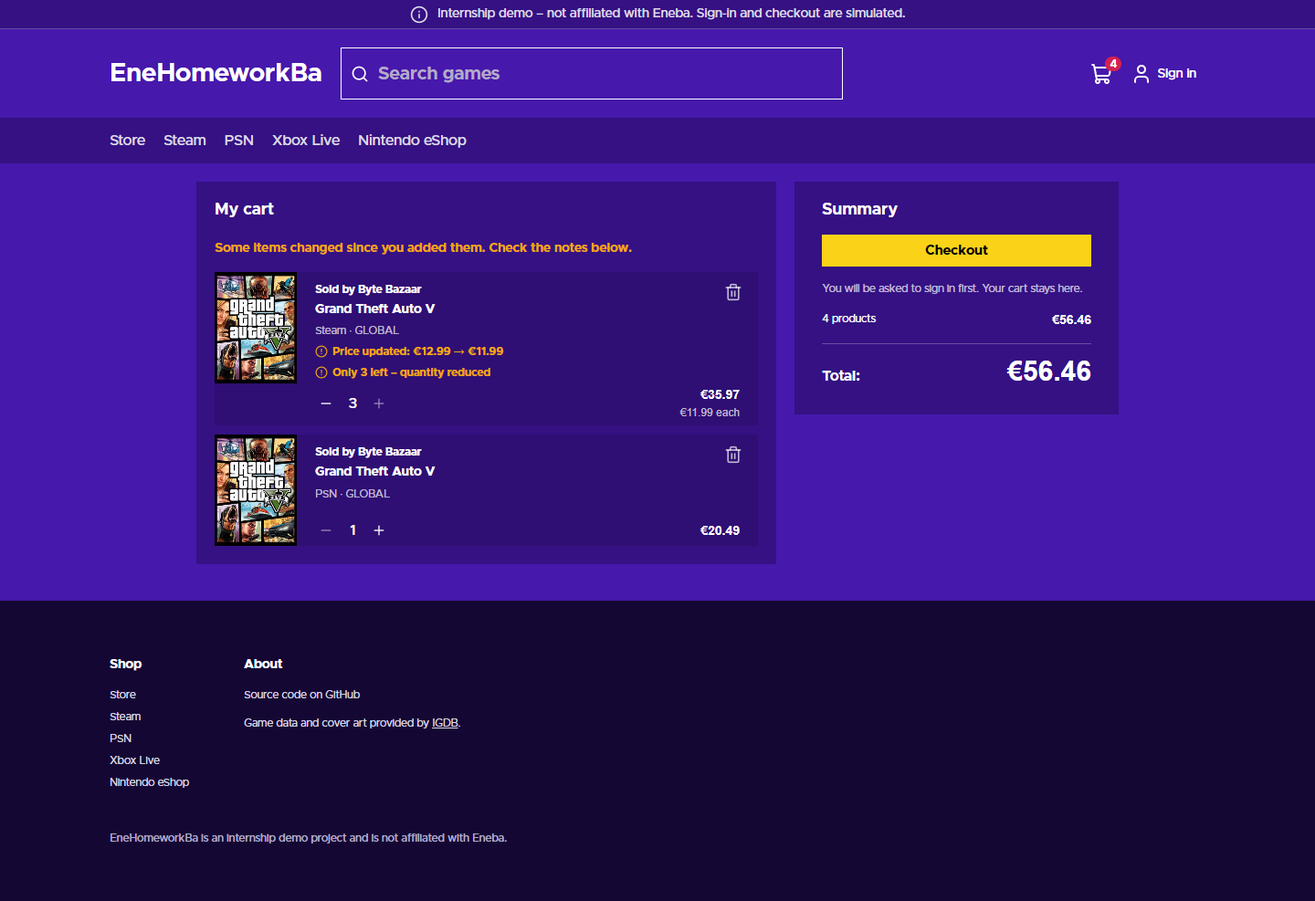
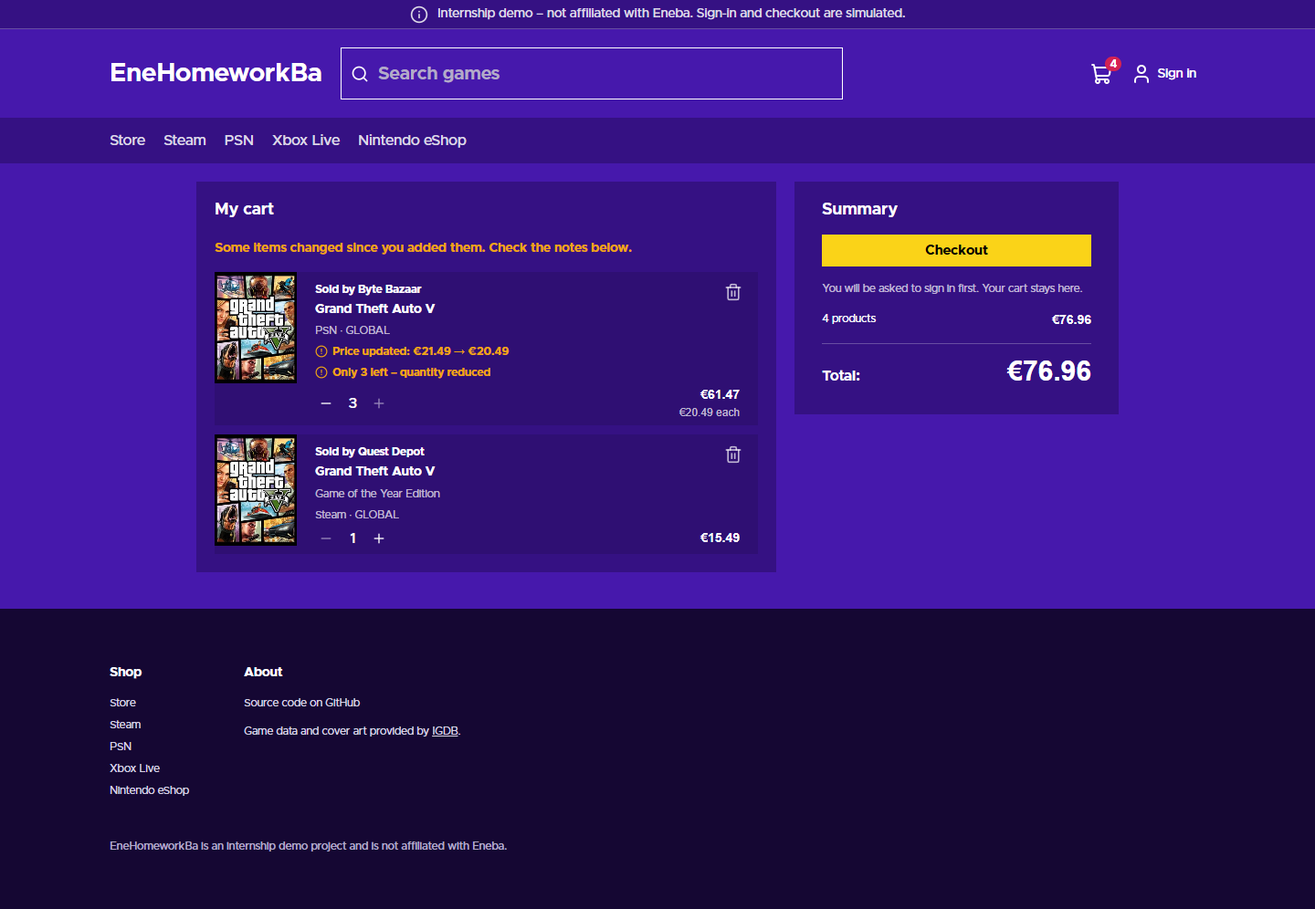
Task 16b: docs after the rebase - report (real-API run with the unpaid-order cap, rebase decisions), DESIGN, Lithuanian notes, README folder list, screenshots

diff --git a/docs/reports/TASK_16b_checkout_ui.md b/docs/reports/TASK_16b_checkout_ui.md
@@ -5,8 +5,7 @@ Task file: [`docs/tasks/TASK_16b_checkout_ui.md`](../tasks/TASK_16b_checkout_ui.
 ## 1. Files changed
 
 **API layer (`src/api/`)**
-- `types.ts` – the checkout / order types of the 16a contract (§4).
-- `orders.ts` (new) – `quoteCart`, `createOrder`, `getOrders`, `getOrder`, `payOrder`, `cancelOrder`, and error readers: `cartChangedLines` (409 `cart_changed`), `isReservationExpired`, `isHttpStatus`, `orderErrorMessage` (server text only for 400/402/409, otherwise generic).
+- `types.ts`, `orders.ts` – **16a's files (merged) are used as they are**; on top of them this PR only: `orders.ts` imports the shared `postJSON` from `post.ts` (instead of its own private copy) and gains `isHttpStatus` and `orderErrorMessage` (server text only for 400/402/409, otherwise generic). 16a's `orders.test.ts` gets 4 tests for these two.
 - `post.ts` (new) – `postJSON`, moved out of `auth.ts` so `auth.ts` and `orders.ts` share it (a separate module so the tests' `apiFetch` mock still applies, see §5).
 - `auth.ts` – imports `postJSON` from `post.ts`.
 - `queries.ts` – keys `orders`, `orderList`, `order(id)`, `cartQuote(items)`; `orderListQuery`, `orderQuery` (`staleTime: 0`).
@@ -18,9 +17,9 @@ Task file: [`docs/tasks/TASK_16b_checkout_ui.md`](../tasks/TASK_16b_checkout_ui.
 **Checkout (`src/features/checkout/`, new)**
 - `lineStatus.ts` – per-line notices ("Price updated: €x → €y", "Only N left – quantity reduced", "No longer available"), `mergeAnswer`, `clearNotices`, `unavailableOffers`, `hasNotices`.
 - `lineStatusStore.ts` – the statuses outside React (`useSyncExternalStore`) and `applyServerAnswer` (the one place a quote or a 409 reaches the cart).
-- `attemptKey.ts` – the idempotency key per checkout attempt: `sessionStorage` + cart fingerprint.
+- `attemptKey.ts` – the idempotency key per checkout attempt (made with 16a's `newIdempotencyKey`): `sessionStorage` + cart fingerprint.
 - `countdown.ts` – `clockOffsetMs`, `remainingMs`, `formatCountdown` (server clock).
-- `useCartQuote.ts`, `useCheckout.ts` – the quote query and the "Checkout" mutation.
+- `useCartQuote.ts`, `useCheckout.ts` – the quote query and the "Checkout" mutation (incl. the 409 "Too many unpaid orders" answer → message + link to `/orders`).
 - `CartView.tsx`, `CartLineItem.tsx`, `QuantityStepper.tsx`, `PaymentView.tsx` (+ `.module.css`), `CheckoutLayout.module.css` (shared two-panel layout).
 - `fixtures.ts`, `testApp.tsx` – test helpers (imported only by `*.test.ts(x)`, so not in the bundle; same pattern as `features/product/fixtures.ts`).
 
@@ -30,11 +29,11 @@ Task file: [`docs/tasks/TASK_16b_checkout_ui.md`](../tasks/TASK_16b_checkout_ui.
 
 **Other code** – `src/features/auth/useCurrentUser.ts` (cached orders dropped on sign in / sign out), `RequireAuth.tsx` (comment), `src/lib/useNow.ts` (new), `src/lib/formatDate.ts` (`formatDateTime`), `src/styles/tokens.css` (5 tokens, below).
 
-**Tests** – new: `src/api/orders.test.ts`, `src/features/checkout/checkoutRules.test.ts`, `src/features/orders/orderText.test.ts`, `src/pages/CartPage.test.tsx`, `CheckoutPage.test.tsx`, `OrdersPage.test.tsx`.
-Changed (Task 14 tests used `/orders` as "the protected page" and read its placeholder text): `src/features/auth/fakeAuthServer.ts` (answers `GET /api/orders` with an empty list), `src/app/routes.test.tsx`, `src/app/AccountMenu.test.tsx`.
+**Tests** – new: `src/features/checkout/checkoutRules.test.ts`, `src/features/orders/orderText.test.ts`, `src/pages/CartPage.test.tsx`, `CheckoutPage.test.tsx`, `OrdersPage.test.tsx`.
+Changed (Task 14 tests used `/orders` as "the protected page" and read its placeholder text): `src/features/auth/fakeAuthServer.ts` (answers `GET /api/orders` with an empty list), `src/app/routes.test.tsx`, `src/app/AccountMenu.test.tsx`; `src/api/orders.test.ts` (16a's file: + `isHttpStatus` / `orderErrorMessage` tests).
 
 **Docs** – `docs/DESIGN.md` (S6 source; token `--color-surface-line` in 2.1; layout tokens in 2.4; 3.6 Eneba's cart measured + as built for cart, payment, orders; 5.1 contrast rows; 6 research notes),
-`docs/PAAISKINIMAI_LT.md` (Task 16b block), this report, `docs/reports/assets/task16b_*.png` (our screenshots), `docs/tasks/TASK_16b_checkout_ui.md`.
+`docs/PAAISKINIMAI_LT.md` (Task 16b block), `README.md` (folder list), this report, `docs/reports/assets/task16b_*.png` (our screenshots), `docs/tasks/TASK_16b_checkout_ui.md`.
 
 **Tokens added:** `--color-surface-line` `rgba(0,0,0,.12)`, `--checkout-max-width` 1010px, `--checkout-side-width` 355px, `--cart-cover-width` 90px / `--cart-cover-width-sm` 50px, `--key-action-min-width` 90px.
 
@@ -43,19 +42,19 @@ Changed (Task 14 tests used `/orders` as "the protected page" and read its place
 | Check | Result |
 |---|---|
 | `gofmt -l .` | prints nothing |
-| `go build ./...` / `go vet ./...` / `go test ./...` | pass (no Go changes in this PR) |
+| `go build ./...` / `go vet ./...` / `go test ./...` | pass (no Go changes in this PR: the diff against `origin/main` has no `.go`, `go.mod` or `go.sum` file; `go 1.25.0` unchanged) |
 | `npm run lint` | 0 problems |
-| `npm test` (PowerShell) | **43 files, 530 tests pass** (new: 17 cart page + checkout, 13 payment page, 8 orders, 20 checkout rules, 6 order text helpers, 7 API error readers) |
+| `npm test` (PowerShell), after the rebase on 16a | **43 files, 541 tests pass** (new in this PR: 19 cart page + checkout incl. the unpaid-order cap, 13 payment page, 8 orders, 20 checkout rules, 6 order text helpers, 4 API error readers) |
 | `npm run build` | OK |
 | Tests can fail (mutation check) | Checkout with a new UUID per click instead of `checkoutAttempt.keyFor` → the "retry sends the SAME key" test fails; countdown without the server-clock offset → 5 payment-page tests fail. Both restored. |
-| **Browser, mock API** (headless Edge → `vite preview` 127.0.0.1:4196 → a mock of the 16a API on 127.0.0.1:8096, scratchpad) | **49/49**: empty cart; 2 lines + total; price change / stock reduced / unavailable notices, total without the unavailable line, stored cart updated; remove; Checkout signed out → `/login?next=%2Fcart` → demo → back to `/cart`; Checkout → payment page; countdown; only two radios (no card fields); decline message; success → order page, cart emptied, toast; keys masked, Reveal, Copy (clipboard read back) + "Copied"; orders list; **409 `cart_changed`** (price changed between quote and click) → notice, second press creates the order; Cancel order → `/cart`; pending order links to its payment page; **expiry** (5 s reservation in the mock) → "Your reservation has expired" + Back to cart, cart kept; unknown order → 404; phone pages; no horizontal overflow |
-| **Browser, REAL 16a API** (`cmd/local` built from `origin/task/16a-checkout-backend` on 127.0.0.1:8097, Neon **dev**, migration 00005 already there) | **22/22**: two products added from the Store; fresh lines without notices; the quote change list (a stale price and 5 of an offer with stock 3 in localStorage) → "Price updated: €12.99 → €11.99" + "Only 3 left – quantity reduced", price written back; signed out → login → demo → cart; real order + countdown 15:00; decline `402`; success → 2 `DEMO-…` keys masked, Reveal, Copy; `/orders` newest first; the payment page of a paid order → its order page; unknown order → 404 |
-| axe-core (WCAG 2 A/AA, 2.1 AA, best practice) | **0 violations** on: empty cart, cart, cart with notices, payment, payment declined, payment expired, order (paid), orders (desktop); cart with notices, payment, order, orders (phone); and on the real-API cart with notices, payment and order |
+| **Browser, mock API** (headless Edge → `vite preview` 127.0.0.1:4196 → a mock of the 16a API on 127.0.0.1:8096, scratchpad); run before and again after the rebase | **49/49** both times: empty cart; 2 lines + total; price change / stock reduced / unavailable notices, total without the unavailable line, stored cart updated; remove; Checkout signed out → `/login?next=%2Fcart` → demo → back to `/cart`; Checkout → payment page; countdown; only two radios (no card fields); decline message; success → order page, cart emptied, toast; keys masked, Reveal, Copy (clipboard read back) + "Copied"; orders list; **409 `cart_changed`** (price changed between quote and click) → notice, second press creates the order; Cancel order → `/cart`; pending order links to its payment page; **expiry** (5 s reservation in the mock) → "Your reservation has expired" + Back to cart, cart kept; unknown order → 404; phone pages; no horizontal overflow |
+| **Browser, REAL API after the rebase** (`cmd/local` built from this branch = `main` with 16a, on 127.0.0.1:8097, Neon **dev**) | **29/29**: two products added from the Store; fresh lines without notices; the quote change list (a stale price and 5 of an offer with stock 2 in localStorage) → "Price updated: €12.99 → €11.99" + "Only 2 left – quantity reduced", price written back; signed out → login → demo → cart; real order + countdown 15:00; decline `402`; success → 2 `DEMO-…` keys masked, Reveal, Copy; `/orders` newest first; the payment page of a paid order → its order page; unknown order → 404; **unpaid-order cap**: 3 pending orders, the 4th Checkout → "Too many unpaid orders – pay or cancel one first. View your orders" (stays on `/cart`), the link → `/orders` listing the 3 pending orders with links to their payment pages, cancel one → Checkout creates the order; clean-up: all pending orders cancelled (keys released on dev). Before the merge the same script without the cap part ran 22/22 against 16a's branch |
+| axe-core (WCAG 2 A/AA, 2.1 AA, best practice) | **0 violations** on: empty cart, cart, cart with notices, payment, payment declined, payment expired, order (paid), orders (desktop); cart with notices, payment, order, orders (phone); and on the real-API cart with notices, the cart with the unpaid-order cap message, payment and order |
 | Loopback | mock 127.0.0.1:8096, real API 127.0.0.1:8097, preview 127.0.0.1:4196; nothing on 0.0.0.0. Scripts, the mock, the preview config and Eneba's reference screenshots stayed in the session scratchpad; all servers stopped afterwards |
 
 **Screenshots (ours):** `docs/reports/assets/task16b_cart-empty-desktop.png`, `task16b_cart-desktop.png`, `task16b_cart-notices-desktop.png`, `task16b_payment-desktop.png`, `task16b_payment-declined-desktop.png`, `task16b_payment-expired-desktop.png`,
 `task16b_order-desktop.png`, `task16b_order-revealed-desktop.png`, `task16b_orders-desktop.png`, `task16b_cart-mobile.png`, `task16b_payment-mobile.png`, `task16b_order-mobile.png`, `task16b_orders-mobile.png`;
-real API: `task16b_real-cart-desktop.png`, `task16b_real-cart-notices-desktop.png`, `task16b_real-payment-desktop.png`, `task16b_real-order-desktop.png`, `task16b_real-orders-desktop.png`.
+real API: `task16b_real-cart-desktop.png`, `task16b_real-cart-notices-desktop.png`, `task16b_real-payment-desktop.png`, `task16b_real-order-desktop.png`, `task16b_real-orders-desktop.png`, `task16b_real-cart-too-many-unpaid-desktop.png`, `task16b_real-orders-pending-desktop.png`.
 
 ### Comparison with eneba.com (1440 / 390): Eneba → ours → still different, why
 
@@ -82,16 +81,17 @@ Reference: headless Edge, `eneba.com/checkout` reached as a user does (product p
 
 ## 3. What the owner must do manually
 
-1. **Merge Task 16a (PR #17) first**, after its own pre-merge step (*Migrate production* from `task/16a-checkout-backend`). This PR has **no migration**.
-2. **Tell Claude Code that 16a is merged.** It then: rebases this branch on `main` (the 16a frontend types and calls arrive in `src/api/` → this branch switches to 16a's names), repeats the real-API browser check against `main`'s `cmd/local`, pushes, opens the PR and waits for CI. (Not pushed before: a rebase of a pushed branch would need a force-push.)
-3. On the Vercel **Preview** (dev branch): add two games → cart → Checkout → "Sign in as demo user" → back on the cart → Checkout → Decline (message) → Success → order page: Reveal and Copy a key → `/orders`.
-4. Optional, to see the notices: in DevTools → Application → Local Storage → `cart:v1`, raise one `priceCents` by 100 and reload `/cart` → "Price updated: …".
+1. Nothing before the merge: 16a (PR #17) is already merged and this branch is rebased on it. This PR has **no migration**, so there is no *Migrate production* run.
+2. On the Vercel **Preview** (dev branch): add two games → cart → Checkout → "Sign in as demo user" → back on the cart → Checkout → Decline (message) → Success → order page: Reveal and Copy a key → `/orders`.
+3. Optional, to see the notices: in DevTools → Application → Local Storage → `cart:v1`, raise one `priceCents` by 100 and reload `/cart` → "Price updated: …".
+
+4. Optional, the unpaid-order cap: as one demo user, Checkout → on the payment page use the browser's Back → Checkout again, three times; the fourth Checkout shows "Too many unpaid orders – pay or cancel one first. View your orders". Cancel the orders afterwards (otherwise their keys stay held for 15 minutes).
 
 ## 4. Plain-language explanation
 
 The cart lives in the browser and may be days old, so **every visit to the cart asks the server** what each line costs now and how many keys are left (`POST /api/checkout/quote`). The answer is written into the cart and the page says what changed next to the line: "Price updated: €10.99 → €12.49", "Only 2 left – quantity reduced", or "No longer available" (that line is greyed out, not counted, not sent to checkout; the user removes it).
 
-**Checkout** first needs a signed-in user (otherwise the sign-in page, which comes back to the cart). It then asks the server to create the order and reserve the keys. Every attempt carries an **idempotency key**: the same key is reused for a double click or for pressing Checkout again after a network error, so the server answers with the order it already made instead of making a second one. A new key is made only when the cart is different. If the server says the cart changed (409), nothing was created: the new prices / quantities go into the cart with their notices, and the user presses Checkout again.
+**Checkout** first needs a signed-in user (otherwise the sign-in page, which comes back to the cart). It then asks the server to create the order and reserve the keys. Every attempt carries an **idempotency key**: the same key is reused for a double click or for pressing Checkout again after a network error, so the server answers with the order it already made instead of making a second one. A new key is made only when the cart is different. If the server says the cart changed (409), nothing was created: the new prices / quantities go into the cart with their notices, and the user presses Checkout again. If the user already has 3 unpaid orders (the server's limit from 16a), the cart says "Too many unpaid orders – pay or cancel one first" with a link to the orders page; after paying or cancelling one, Checkout works again (with the same key).
 
 The **payment page** shows the order and "Reserved for mm:ss". The time is counted with the **server's** clock (the server sends its time with the order), so a wrong clock on the computer does not show the wrong time. The payment is **simulated**: a clearly labelled box with Success / Decline and no card fields at all – a demo that asks for card details teaches people a dangerous habit. Decline shows a message and the user can try again; when the time runs out the page says so and goes back to the cart (still full); Success removes the bought games from the cart and opens the order.
 
@@ -99,18 +99,19 @@ The **order page** shows what was bought (a snapshot taken when ordering). Keys 
 
 ## 5. Deviations from the task and why
 
-1. **Real API checked before the merge too.** The task says: mock until 16a is merged, the real API after the rebase. The mock run was done (49/49, incl. expiry), and because migration 00005 is already on the `dev` branch I also ran 16a's own `cmd/local` (built from the committed 16a branch into the scratchpad) – 22/22. It is repeated after the rebase (owner step 2).
-2. **Not pushed / no PR yet.** The task orders "rebase on main after 16a is merged, then ask for review"; pushing now and rebasing later would need a force-push, which CLAUDE.md forbids. The worktree stays until the PR is opened.
-3. **Type names – how the clash with 16a is resolved.** Both branches add the §4 types and calls to `src/api/types.ts` / `orders.ts` (16a §4 asks for them), with different names: `CheckoutItem`/`CartLineInput`, `QuoteLine`/`CheckoutLine`, `QuoteResponse`/`Quote`, `CartChangedResponse`/`CartChangedBody`, `getOrders`/`listOrders`; `keys?` optional here, `keys: string[]` in 16a. The JSON is identical (checked against `pkg/orders/types.go`, and the UI ran against 16a's server). **At the rebase 16a's versions win**: this UI switches to 16a's names; from this branch only what 16a lacks is added on top (`isHttpStatus`, `orderErrorMessage` and their tests), 16a's private `postJSON` is replaced by the shared `src/api/post.ts`, and `PAAISKINIMAI_LT.md` keeps both blocks (16a first).
+1. **Real API checked before the merge too.** The task says: mock until 16a is merged, the real API after the rebase. Both were done; in addition, before the merge, 16a's own `cmd/local` was run (built from the committed 16a branch into the scratchpad with `git archive`; migration 00005 was already on `dev`) – 22/22.
+2. **Pushed only after the rebase.** The branch stayed local until 16a was merged: pushing earlier and rebasing later would have needed a force-push, which CLAUDE.md forbids.
+3. **Type names – how the clash with 16a was resolved.** Both branches add the §4 types and calls to `src/api/types.ts` / `orders.ts` (16a §4 asks for them), with different names: `CheckoutItem`/`CartLineInput`, `QuoteLine`/`CheckoutLine`, `QuoteResponse`/`Quote`, `CartChangedResponse`/`CartChangedBody`, `getOrders`/`listOrders`; `keys?` optional here, `keys: string[]` in 16a. The JSON is identical (checked against `pkg/orders/types.go`, and the UI ran against 16a's server). **At the rebase 16a's versions won** (conflicts resolved by keeping `main`'s `types.ts`, `orders.ts`, `orders.test.ts`): the UI now uses 16a's names (`CartLineInput`, `CheckoutLine`, `listOrders`, `PaymentOutcome` from `types.ts`, `newIdempotencyKey`, `isTooManyPendingOrders`); from this branch only what 16a lacks is added on top (`isHttpStatus`, `orderErrorMessage` and their tests); 16a's private `postJSON` is replaced by the shared `src/api/post.ts`; `PAAISKINIMAI_LT.md` keeps both blocks (16a first). Done in one commit after the rebase ("after rebase on 16a – use 16a's API types and calls"); the earlier commits of this branch do not build on their own after the rebase, only the branch head does.
 4. **`postJSON` moved to `src/api/post.ts`** (was private in `auth.ts`). A first move into `client.ts` broke 14 auth tests: their `vi.mock` replaces the exported `apiFetch`, but a helper inside `client.ts` calls the module's own copy. A separate module fixes that.
 5. **"Pay" / "Checkout" "disabled while the request runs"** is the Button's `loading` state (spinner, `aria-busy`, clicks ignored, keeps keyboard focus – DESIGN 4 "Loading"), not the `disabled` attribute; plus a guard in the click handler. Tested: a second click sends no second request.
 6. **Task 14 tests changed:** they used `/orders` as the "protected page" and read its placeholder text ("Signed in as …"). The fakes now answer `GET /api/orders` with `[]` and the assertions check the orders page.
-7. **Additions not in the task (justified extras):** `src/api/post.ts` (item 4); cached orders are dropped on sign in / sign out (another user in the same tab must never see them); the notices of a line are cleared when the user changes its quantity (they have answered it); "Could not check the latest prices and stock. Try again" when the quote fails (the cart and Checkout still work: the server checks again).
+7. **The unpaid-order cap (asked by the owner after 16a's review, not in the task file):** 16a now answers `409 "Too many unpaid orders – pay or cancel one first"` when a user already holds 3 open unpaid orders. Checkout shows that text in the error box with a link **"View your orders"** → `/orders` (where each pending order links to its payment page with "Cancel order"). Nothing in the cart changes, and the idempotency key is **kept**: it is the same attempt, so after paying or cancelling one order, Checkout repeats it with the same key (tested in Vitest and in the real-API browser run).
+8. **Additions not in the task (justified extras):** `src/api/post.ts` (item 4); cached orders are dropped on sign in / sign out (another user in the same tab must never see them); the notices of a line are cleared when the user changes its quantity (they have answered it); "Could not check the latest prices and stock. Try again" when the quote fails (the cart and Checkout still work: the server checks again).
 
 ## 6. Open questions
 
 1. Eneba's desktop cart button opens a **popup** (lines, total, "View cart", "Checkout now"). Should we add one, or is the cart page enough?
-2. **Back from the payment page and Checkout again** with the same cart creates a **second** pending order (the key is forgotten once an order exists, as the task says), and the first order's keys stay reserved until it expires (15 min, lazy expiry) unless the user presses "Cancel order". Alternative: remember the pending order per cart and open it again. Keep as is?
+2. **Back from the payment page and Checkout again** with the same cart creates a **second** pending order (the key is forgotten once an order exists, as the task says), and the first order's keys stay reserved until it expires (15 min, lazy expiry) unless the user presses "Cancel order". 16a's cap now limits this to 3 such orders. Alternative: remember the pending order per cart and open it again. Keep as is?
 3. "Cancel order" has no "Are you sure?" step (nothing is lost: the cart stays). Fine?
 
 ## 7. Self-review (task-reviewer)
@@ -128,4 +129,4 @@ The `task-reviewer` subagent was given only the task number and the worktree pat
 | `fixtures.ts` / `testApp.tsx` are test helpers in non-test files | Kept (not imported by app code, not bundled; same as the existing `features/product/fixtures.ts`); noted in §1 |
 | The report must be named `TASK_16b_checkout_ui.md` (DESIGN.md links to it); the session log is not exported yet | This file has that name; the session log is committed at the end of the session |
 
-After the fixes: lint 0, **530/530** tests, build OK.
+After the fixes: lint 0, **530/530** tests, build OK. After the rebase on 16a and the cap handling: lint 0, **541/541**, build OK, Go checks pass, browser 49/49 (mock) and 29/29 (real API).

diff --git a/docs/PAAISKINIMAI_LT.md b/docs/PAAISKINIMAI_LT.md
@@ -822,11 +822,12 @@ Kiekvienam svarbiam failui: **ką daro**, **kodėl taip**, **ko gali paklausti p
 - **Gali paklausti:** „Kodėl quote yra POST, jei nieko nekeičia?" – krepšelis siunčiamas kūne (iki 20 eilučių); GET su tokiu sąrašu URL'e būtų nepatogus. TanStack Query vis tiek jį kešuoja kaip query.
 
 ## Idempotencija kliento pusėje (`src/features/checkout/attemptKey.ts`, `useCheckout.ts`)
-- **Ką daro:** „Checkout" siunčia `POST /api/orders` su `idempotencyKey` (UUID iš `crypto.randomUUID()`). Raktas saugomas `sessionStorage` **kartu su krepšelio „pirštų atspaudu"** (`cartFingerprint`: surikiuotos `[offerId, quantity, kaina]` poros): tas pats krepšelis → tas pats raktas; pasikeitęs krepšelis → naujas raktas; užsakymas sukurtas arba gautas 409 → raktas pamirštamas.
+- **Ką daro:** „Checkout" siunčia `POST /api/orders` su `idempotencyKey` (UUID iš 16a `newIdempotencyKey()` = `crypto.randomUUID()`). Raktas saugomas `sessionStorage` **kartu su krepšelio „pirštų atspaudu"** (`cartFingerprint`: surikiuotos `[offerId, quantity, kaina]` poros): tas pats krepšelis → tas pats raktas; pasikeitęs krepšelis → naujas raktas; užsakymas sukurtas arba gautas 409 `cart_changed` → raktas pamirštamas.
 - **Kodėl:** serveris pažada – tas pats raktas iš to paties vartotojo grąžina **tą patį** užsakymą (16a K4). Svarbiausias atvejis – tinklo klaida: užklausa galėjo pasiekti serverį ir sukurti užsakymą, tik atsakymas nepasiekė mūsų. Paspaudus dar kartą su **tuo pačiu** raktu serveris grąžina jau sukurtą užsakymą (200), o ne rezervuoja raktus antrą kartą. Dvigubas paspaudimas: mygtukas `loading` metu paspaudimų nepriima + `if (mutation.isPending) return` + net jei dvi užklausos išeitų – raktas tas pats.
 - **Kodėl `sessionStorage`, ne `localStorage`:** išgyvena puslapio perkrovimą, bet priklauso vienam skirtukui ir dingsta jį uždarius. Užblokuota saugykla → raktas laikomas atmintyje (dvigubas paspaudimas ir pakartojimas vis tiek veikia).
 - **409 `cart_changed`:** užsakymas nesukurtas; grąžintos eilutės pritaikomos krepšeliui per tą pačią `applyServerAnswer` (pranešimai, nauja kaina), žmogus peržiūri ir spaudžia dar kartą – tai jau naujas bandymas su nauju raktu. **401** (sesija pasibaigė) → kaip neprisijungęs: `/login?next=/cart`.
-- **Gali paklausti:** „Kodėl ne naujas raktas kiekvienam paspaudimui?" – tada pakartojimas po tinklo klaidos galėtų sukurti **du** užsakymus ir rezervuoti raktus dukart (testas „a retry after a network error sends the SAME key" tai tikrina; pakeitus į `crypto.randomUUID()` jis krenta).
+- **409 „Too many unpaid orders – pay or cancel one first" (16a taisyklė R10, daugiausia 3 neapmokėti užsakymai):** užsakymas nesukurtas, krepšelis nesikeičia. Krepšelyje rodomas serverio tekstas ir nuoroda **„View your orders"** (`/orders`, kur `pending` užsakymas veda į mokėjimo puslapį su „Cancel order"). Raktas **lieka** – tai tas pats bandymas: apmokėjus ar atšaukus vieną užsakymą, „Checkout" siunčia tą patį raktą ir užsakymas sukuriamas (naršyklėje patikrinta su tikru API). Atpažįstama 16a `isTooManyPendingOrders` (lygina statusą 409 **ir** tikslų tekstą), todėl nesupainiojama su `cart_changed`.
+- **Gali paklausti:** „Kodėl ne naujas raktas kiekvienam paspaudimui?" – tada pakartojimas po tinklo klaidos galėtų sukurti **du** užsakymus ir rezervuoti raktus dukart (testas „a retry after a network error sends the SAME key" tai tikrina; pakeitus `checkoutAttempt.keyFor(items)` į naują UUID kiekvienam paspaudimui jis krenta).
 
 ## Atgalinis laikmatis su serverio laiku (`src/features/checkout/countdown.ts`, `PaymentView.tsx`, `src/lib/useNow.ts`)
 - **Ką daro:** „Reserved for mm:ss". `GET /api/orders/{id}` grąžina `reservedUntil` ir `serverTime`. Gavus atsakymą skaičiuojamas skirtumas `offset = serverTime − Date.now()` (naršyklės laikas tuo momentu = TanStack Query `dataUpdatedAt`), o toliau „serverio dabar" = `Date.now() + offset`. Liko = `reservedUntil − serverio dabar`; `useNow` kas sekundę perpiešia. Sekundės apvalinamos **į viršų** – „00:00" reiškia, kad laikas tikrai baigėsi.
@@ -849,4 +850,4 @@ Kiekvienam svarbiam failui: **ką daro**, **kodėl taip**, **ko gali paklausti p
 - **Ką daro:** `/orders` – sąrašas (data, prekių skaičius, suma, būsenos ženkliukas: Paid / Pending payment / Expired / Cancelled); `pending` eilutė veda į mokėjimo puslapį, kitos – į užsakymą. `/orders/:id` – prekės iš **užsakymo momentinės kopijos** (pavadinimas, pardavėjas, kaina tą akimirką), raktai arba „Complete payment". Visi trys puslapiai – po `RequireAuth`.
 - **Kodėl puslapis (`pages/`) atsisiunčia, o `features/` tik piešia:** puslapis sprendžia „kraunasi / 404 / klaida", o `PaymentView`, `OrderView` gauna jau turimus duomenis – juos lengviau testuoti ir paaiškinti.
 - **Kešas ir vartotojai (`useCurrentUser.ts` → `dropOrders`):** užsakymai priklauso vienam vartotojui, todėl prisijungiant ir atsijungiant visi `["orders", …]` įrašai išmetami – kitas tame pačiame skirtuke prisijungęs žmogus niekada nepamatytų ankstesnio užsakymų nė akimirkai.
-- **`postJSON` perkeltas į `src/api/post.ts`:** jį dabar naudoja ir `auth.ts`, ir `orders.ts`. Atskiras modulis tyčia: testai pakeičia `apiFetch` (`vi.mock("client.ts")`), o pagalbinė funkcija **tame pačiame** `client.ts` kviestų tikrąjį `apiFetch` ir testai eitų į tinklą (taip ir nutiko – 14 testų nukrito, kol perkėliau).
+- **`postJSON` perkeltas į `src/api/post.ts`:** jį dabar naudoja ir `auth.ts`, ir `orders.ts` (16a `orders.ts` turėjo savo kopiją – po rebase liko viena). Atskiras modulis tyčia: testai pakeičia `apiFetch` (`vi.mock("client.ts")`), o pagalbinė funkcija **tame pačiame** `client.ts` kviestų tikrąjį `apiFetch` ir testai eitų į tinklą (taip ir nutiko – 14 testų nukrito, kol perkėliau).

diff --git a/docs/DESIGN.md b/docs/DESIGN.md
@@ -351,7 +351,8 @@ above the **"Summary" panel**; both panels `#351183` (= `--color-bg-deep`).
   "Only N left – quantity reduced", `--color-error` for "No longer available"), then the stepper (`QuantityStepper`, 24px buttons, 40px ≤600px; − disabled at 1, + at min(stock, 5))
   and the **line total** (owner decision; Eneba shows the unit price) with "€x each" under it when the quantity is above 1. Trash icon (muted, accent on hover) top-right.
   An **unavailable** line: cover and texts at `--opacity-dimmed`, no stepper and no price, only the trash icon.
-- "Summary": `h2`, the primary **"Checkout"** first (full width, as Eneba), a muted note when signed out ("You will be asked to sign in first…"), an error box if checkout failed,
+- "Summary": `h2`, the primary **"Checkout"** first (full width, as Eneba), a muted note when signed out ("You will be asked to sign in first…"), an error box if checkout failed
+  (`role="alert"`, 1px `--color-error-border`, `--color-error` 14px text; for "Too many unpaid orders – pay or cancel one first" it ends with a bold `--color-accent` link **"View your orders"** → `/orders`),
   "N products  €x" and "Total:" with the 30px (`--font-size-4xl`) amount above a `--color-border` line. Lines that are no longer available are left out of both.
 - Empty cart: the empty state (4.9) as `h1` "Your cart is empty" + primary "Browse the store".
 - **Not copied:** Eneba's step header, the email field (we have accounts), heart/wishlist, seller logos, "Digital product ⓘ", cashback, service fee, consent checkboxes,

diff --git a/README.md b/README.md
@@ -301,11 +301,12 @@ Planning chat → task file → Claude Code works on a `task/NN-name` branch →
 - `public/robots.txt` – the demo asks search engines not to index it (plus `noindex` in `index.html`)
 - `migrations/` – numbered SQL migrations, embedded with `go:embed`
 - `docs/DATA_MODEL.md` – the data model (ER diagram, tables, state machines, query sketches)
-- `src/api/` – `apiFetch` client (timeout, typed errors), catalog functions + JSON types
+- `src/api/` – `apiFetch` client (timeout, typed errors), catalog, auth and checkout / order functions + JSON types
 - `src/app/` – app frame: routes, layout, header, demo banner, footer, TanStack Query client, "waking up" notice
 - `src/components/` – base UI components (Button, Badge, Price, Skeleton, EmptyState, ErrorState, SearchField)
-- `src/pages/` – one file per route (Store is real; the others are placeholders until their tasks)
+- `src/pages/` – one file per route (the home page is still a placeholder)
 - `src/features/store/` – the parts of the Store page (product card and grid, filters, price slider, pagination, mobile drawer)
+- `src/features/cart/`, `src/features/checkout/`, `src/features/orders/` – the cart store, the cart and payment pages (quote notices, idempotency key, countdown, simulated payment) and the order pages (masked keys)
 - `src/lib/` – helpers and hooks (`formatPrice`, Store filters in the URL, ...)
 - `docs/PAAISKINIMAI_LT.md` – explanations in Lithuanian
 - `ai-logs/` – exported Claude Code sessions
